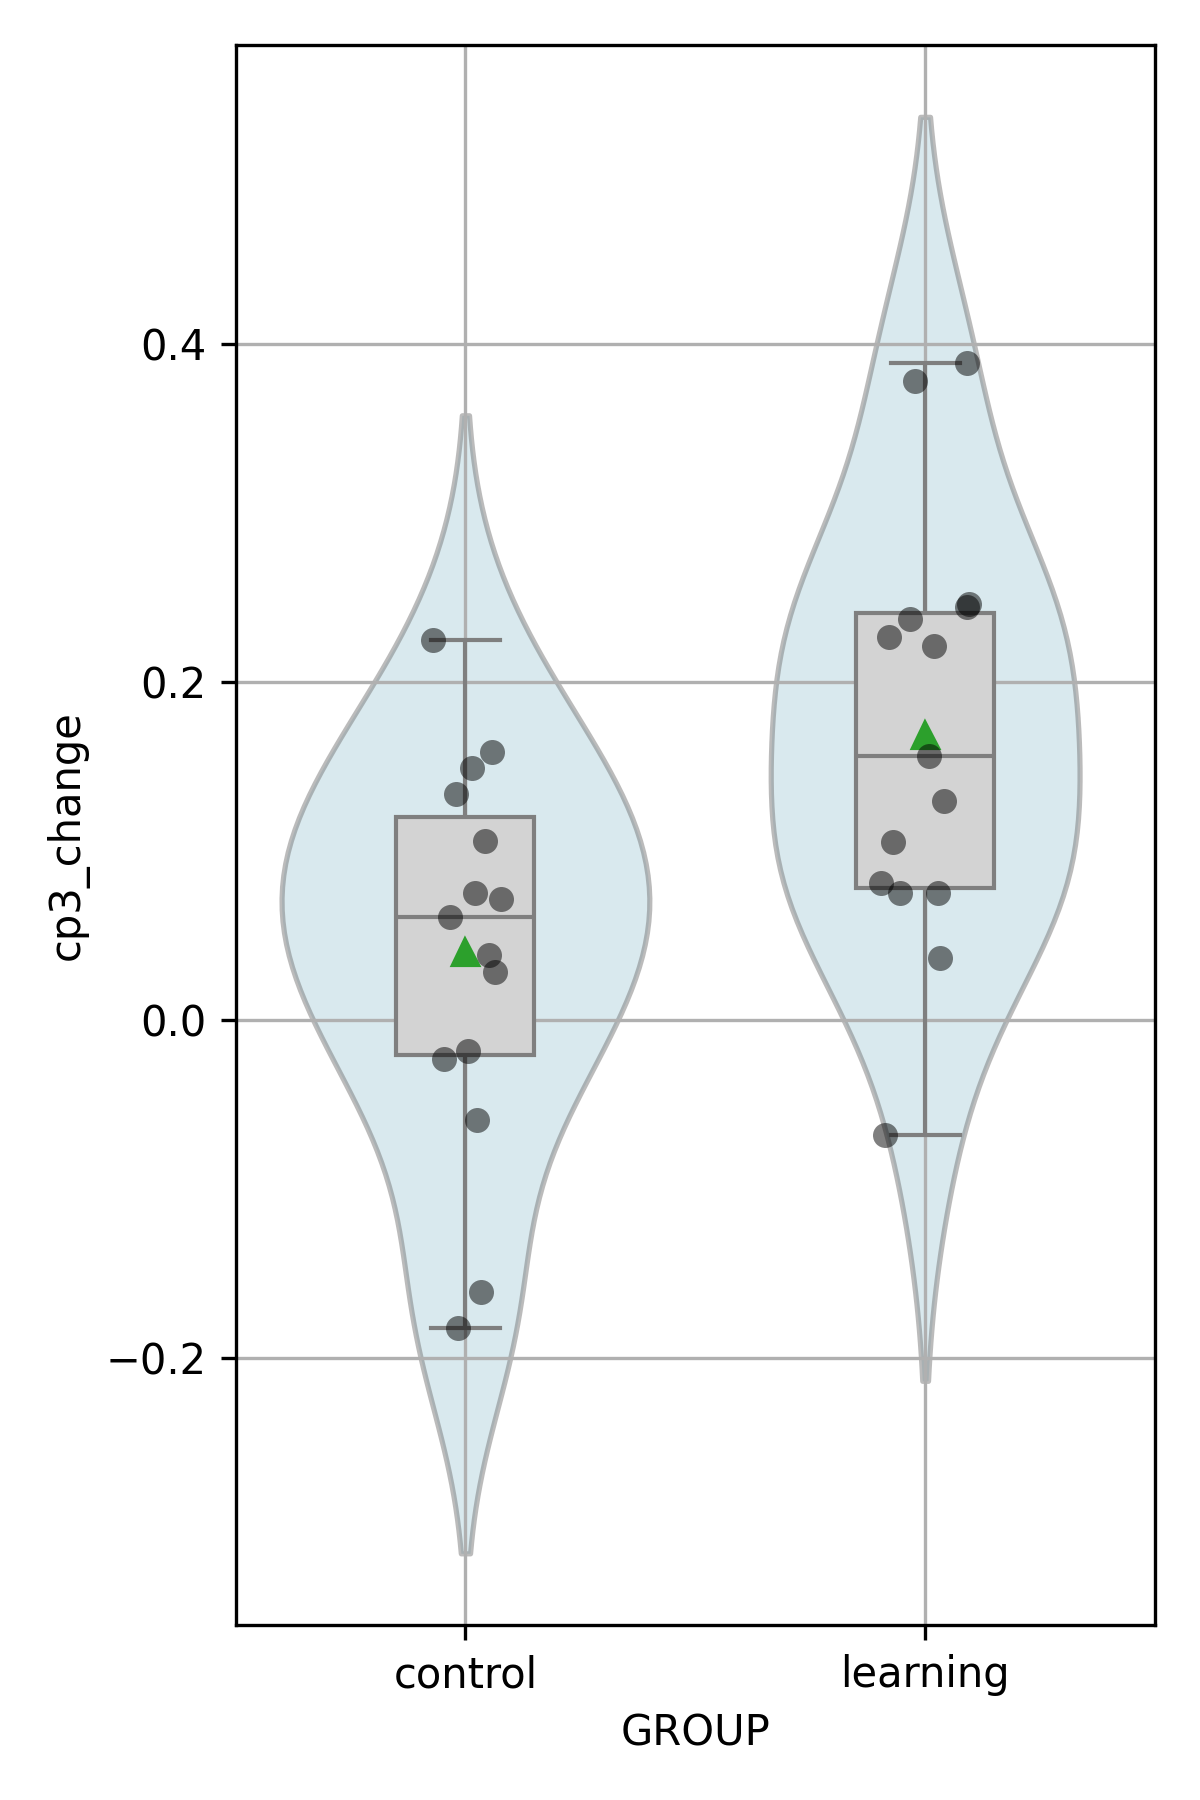
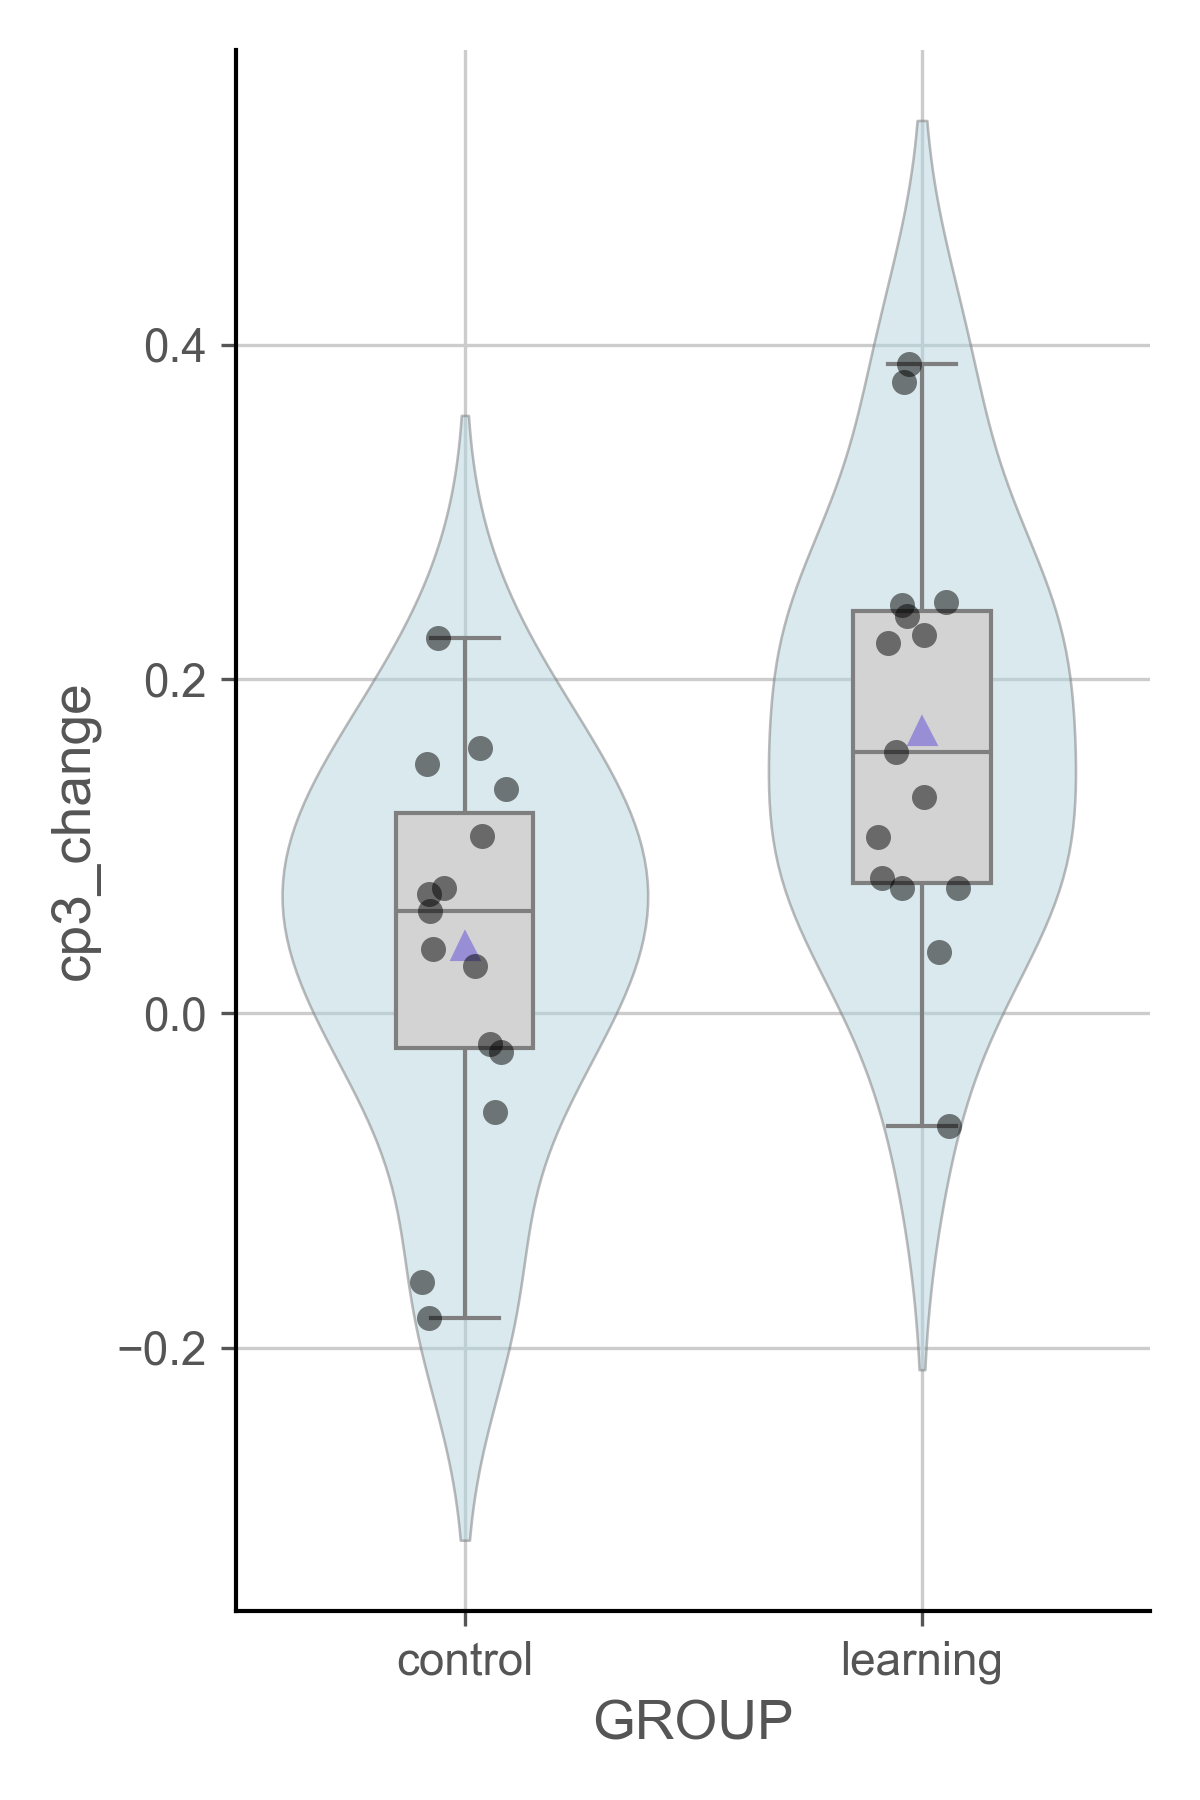
plot config style

diff --git a/plotconfig.py b/plotconfig.py
@@ -1,0 +1,44 @@
+import matplotlib.pyplot as plt
+
+# plot configurations
+# plt. rcParams ['image.cmap'] = 'gray_r'
+plt.rcParams ['image.interpolation'] = 'none'
+plt.rcParams ['figure.figsize'] = (5, 5)
+plt.rcParams ['image.aspect'] = 'auto'
+plt.rcParams ['svg.fonttype'] = 'none'
+# Ensure text is saved as text, not paths
+# plt.rcParams['pdf.fonttype'] = 'none' # Ensure text is saved as text, not paths
+plt.rcParams ['pdf.fonttype'] = 'truetype' # Use 'truetype for PDF font type
+# Set the default style
+plt.style.use('ggplot')
+color_cycle = plt.rcParams['axes.prop_cycle'].by_key()['color']
+# Set the font
+plt.rcParams ['font.size'] = 11
+# plt.rcParams ['font.family'] = 'serif'
+plt.rcParams ['font.family'] = 'sans-serif'
+# plt.rcParams ['font.family'] = 'monospace'
+plt.rcParams ['font.sans-serif'] = ['Arial']
+# plt.rcParams["text.usetex"] = True
+# Set the DPI (dots per inch)
+plt.rcParams ['figure.dpi'] = 150
+# Set the line width
+plt.rcParams ['lines.linewidth'] = 2
+# Set the grid
+plt.rcParams ['grid.color'] = '#cccccc'
+# Set the axes
+plt.rcParams ['axes.facecolor'] = '#ffffff'
+plt.rcParams ['axes.edgecolor'] = '#000000'
+plt.rcParams ['axes.grid'] = False
+plt.rcParams ['axes.axisbelow'] = True
+# Set the legend
+plt.rcParams ['legend.frameon'] = False
+# Set the markers
+plt.rcParams ['scatter.marker'] = 'o'
+# Set the error bars
+plt.rcParams ['errorbar.capsize'] = 3
+# Set the histogram bins
+plt.rcParams ['hist.bins'] = 'auto'
+plt.rcParams ['figure.autolayout'] = True
+plt.rcParams ['axes.spines.top'] = False
+plt.rcParams ['axes.spines.right'] = False
+

diff --git a/test.py b/test.py
@@ -6,6 +6,7 @@ import math
 import os
 from tqdm import tqdm
 from scipy import stats
+import plotconfig # custom plotting style
 
 def read_binary_eeg(fname):
     with open(fname, 'rb') as f:
